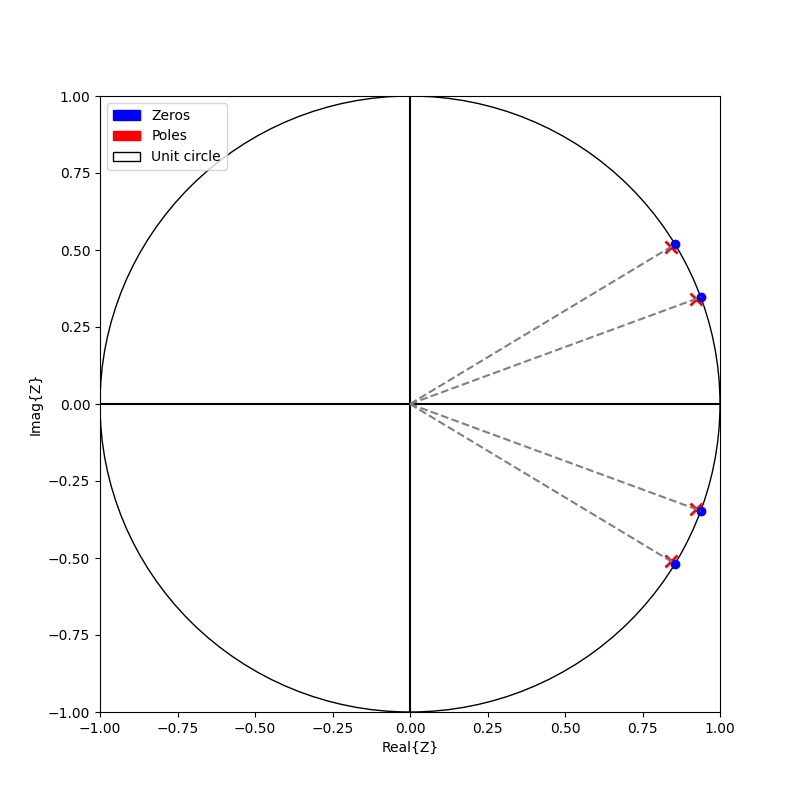
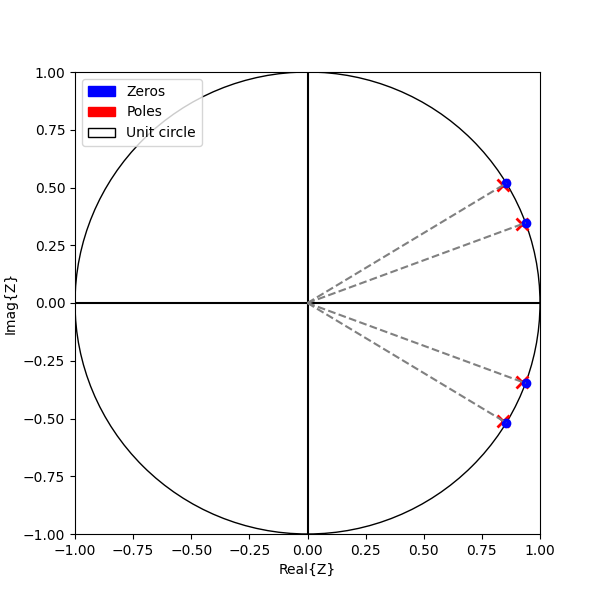
style

diff --git a/main.py b/main.py
@@ -128,14 +128,15 @@ def calculateGainFactor(numerator, denominator, passband_freq):
 
 
 
-def createIIRNotchFilter(notch_freq, notch_width, sample_rate):
+def createIIRNotchFilter(notch_freq, notch_width, passband_f, sample_rate):
     """Create and return the coefficents of an IIR notch filter"""
 
     numerator, denominator = computeIIRNotchCoefficients(notch_freq, notch_width, sample_rate)  # Calculate filter coefficents
-    gain_factor = calculateGainFactor(numerator, denominator, 10) # Calculate gain factors needed to get unity gain in passband
+    gain_factor = calculateGainFactor(numerator, denominator, passband_f) # Calculate gain factors needed to get unity gain in passband
     normalised_numerator = np.array(numerator) * gain_factor  # Normalise passband of filters to unity gain
 
     return normalised_numerator, denominator
+
 
 
 def applyIIRNotchFilters(numerator_1, denominator_1, numerator_2, denominator_2, data):
@@ -342,6 +343,7 @@ def main():
     # Define filter and data parameters
     sample_rate = 1024  # Sample rate of data (Hz)
     cutoff = [57.755, 88.824] # Frequencies to attenuate (Hz), which were calculated based on previous graphical analysis
+    passband_f = [10, 10] # Passband frequencies (Hz) used to calculate the gain factor
     notch_width = 5 # 3 dB bandwidth of the notch filters (Hz)
     optimal_gains = [1, 0, 1]
     freq_gains = [1, 1, 0, 1, 1]
@@ -353,8 +355,8 @@ def main():
     base_freq, base_freq_data = calcFreqSpectrum(samples, sample_rate) # Calculate the frequency spectrum of the data
 
     # Create IIR Notch filters and use them to filter the ECG data
-    notch_num_1, notch_denom_1 = createIIRNotchFilter(cutoff[0], notch_width, sample_rate) # Calculate the first notch filter's coefficents
-    notch_num_2, notch_denom_2 = createIIRNotchFilter(cutoff[1], notch_width, sample_rate) # Calculate the second notch filter's coefficents
+    notch_num_1, notch_denom_1 = createIIRNotchFilter(cutoff[0], notch_width, passband_f[0], sample_rate) # Calculate the first notch filter's coefficents
+    notch_num_2, notch_denom_2 = createIIRNotchFilter(cutoff[1], notch_width, passband_f[1], sample_rate) # Calculate the second notch filter's coefficents
     half_notched_samples, notched_samples = applyIIRNotchFilters(notch_num_1, notch_denom_1, notch_num_2, notch_denom_2, samples) # Apply cascaded notch filters to data
     notch_time = getTimeData(sample_rate, len(notched_samples)) # Create a time array based on notch filtered data
     notch_frequency, notch_freq_data = calcFreqSpectrum(notched_samples, sample_rate) # Calculate frequency of the IIR filtered ECG data

diff --git a/signalPlots.py b/signalPlots.py
@@ -67,7 +67,7 @@ def plotIIRPoleZero(cutoffs, notch_width, f_samp):
     circle_radius = 1  # The unit circle has a radius of 1 by definition
 
     # Create figure
-    circle_fig, axis = plt.subplots(figsize=(8, 8))  # Create plot
+    circle_fig, axis = plt.subplots(figsize=(6, 6))  # Create plot
     plt.xlim([circle_centre[0] - 1, circle_centre[0] + 1])
     plt.ylim([circle_centre[1] - 1, circle_centre[1] + 1])
 
